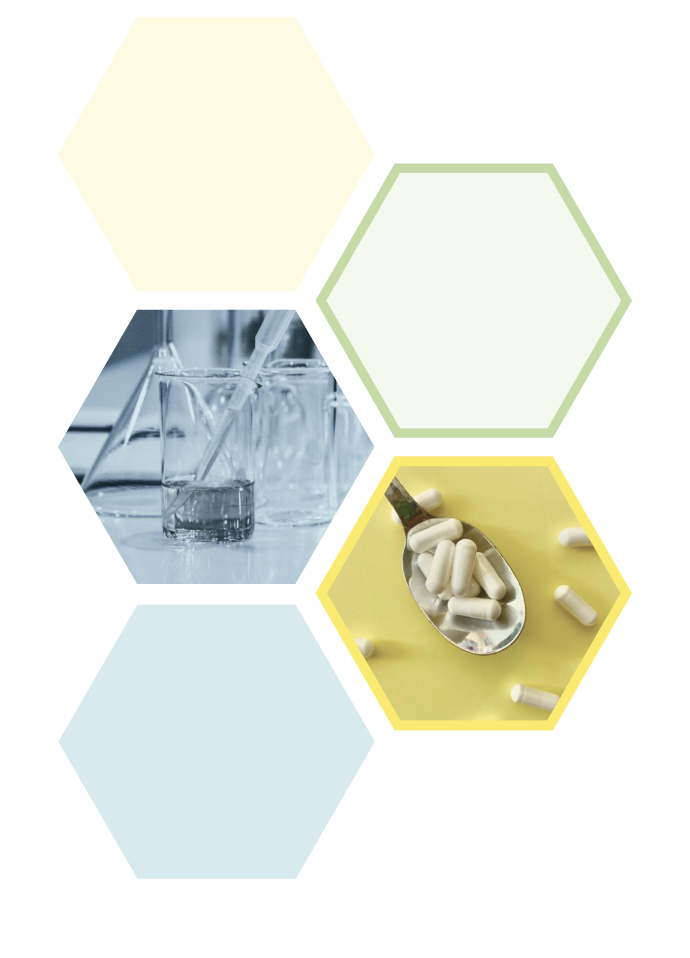
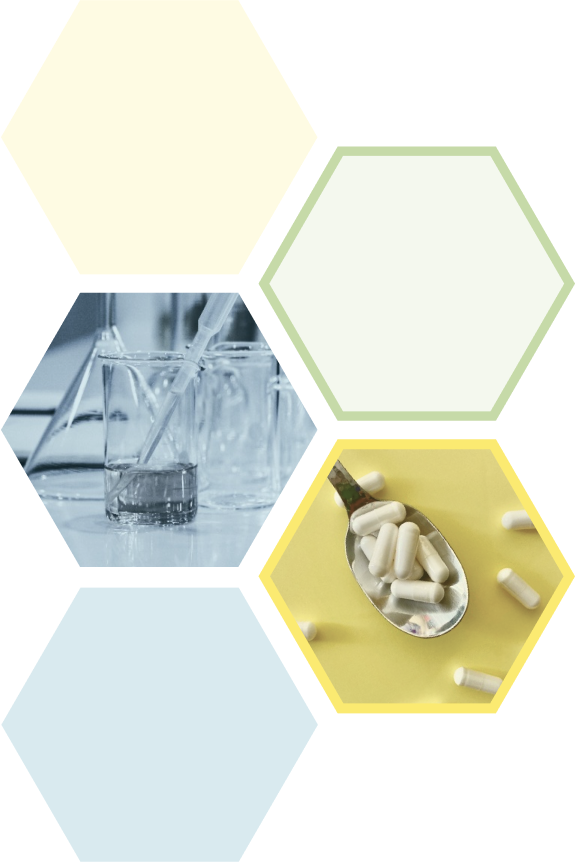
finished home hero

diff --git a/src/components/home/hero.css b/src/components/home/hero.css
@@ -1,31 +1,52 @@
-.hero {
+.home-hero {
     display: flex;
-    justify-content: space-between;
-    align-items: center;
-    padding: 2rem;
+    position: relative;
+    height: 45rem;
+    max-width: 80rem;
+    margin: 0 auto;
+    padding: 0 2rem;
+    flex-direction: column;
+    align-items: flex-start;
+    align-self: stretch;
 }
 
-.hero-text {
-    margin-left: 3rem;
+.home-hero-text {
+    display: flex;
+    height: 43.125rem;
+    overflow: hidden;
+    flex-direction: column;
+    justify-content: center;
+    align-items: flex-start;
+    align-self: stretch;
+    gap: 1.25rem;
 }
 
-.hero-text h2 {
-    font-size: 36px;    /* Adjust as needed */
-    font-weight: lighter;
-    color: #4295AF;          /* Adjust as needed */
-    margin: 0;            /* Remove default margin */
-    text-align: left;
+.home-hero-text h2 {
+    width: 30.5625rem;
+    color: #4295af;
+    font-family: Plus Jakarta Sans;
+    font-size: 2rem;
+    font-style: normal;
+    font-weight: 400;
+    line-height: normal;
+    margin: 0;
 }
 
-.hero-text h1 {
-    font-size: 68px;    /* Adjust as needed */
-    font-weight: bold;
-    color: #4295AF;          /* Adjust as needed */
-    margin: 0;            /* Remove default margin */
-    text-align: left;
+.home-hero-text h1 {
+    width: 30.5625rem;
+    color: #303030;
+    font-family: Plus Jakarta Sans;
+    font-size: 4.25rem;
+    font-style: normal;
+    font-weight: 600;
+    line-height: normal;
+    margin: 0;
 }
 
 .hero-image img {
-    max-width: 70%;       /* Adjust based on the desired size of your image */
-    height: auto;        /* Maintain aspect ratio */
+    position: absolute;
+    top: 0;
+    right: 2rem;
+    height: 100%;
+    z-index: 0;
 }

diff --git a/src/components/home/hero.js b/src/components/home/hero.js
@@ -1,26 +1,20 @@
-import React from 'react';
-import './hero.css'; // Import the CSS file
+import React from "react";
+import "./hero.css"; // Import the CSS file
+import Header from "../Header/header";
 import heroImage from "../../images/hexagon.png"; // Replace 'path_to_your_image.jpg' with the actual path to your image
 
 function Hero() {
     return (
-        <section className="hero-home">
-            <section className="hero">
-                <div className="hero-text">
-                    <h2 id="uc-berkeley">UC Berkeley</h2>
-                    <h1 className="club-name">Toxicology</h1>
-                    <h1 className="club-name">Student</h1>
-                    <h1 className="club-name">Association</h1>
-
-                </div>
-                <div className="hero-image">
-                    <img src={heroImage} />
-                </div>
-            </section>
+        <section className="home-hero">
+            <Header></Header>
+            <div className="home-hero-text">
+                <h2 id="uc-berkeley">UC Berkeley</h2>
+                <h1 className="club-name">Toxicology Student Association</h1>
+            </div>
+            <div className="hero-image">
+                <img src={heroImage} />
+            </div>
         </section>
-
-
-        
     );
 }
 

diff --git a/src/components/Header/header.css b/src/components/Header/header.css
@@ -1,13 +1,11 @@
 .header {
     display: flex;
-    width: 80rem;
     overflow: hidden;
-    height: 5rem;
-    max-width: 80rem;
-    margin: 0 auto;
-    padding: 0 2rem;
+    height: 6rem;
+    width: 100%;
     justify-content: space-between;
     align-items: center;
+    z-index: 2;
 }
 
 .header-navbar {
@@ -26,21 +24,13 @@
 }
 
 .header img {
-    max-width: 150px;
+    max-width: 8rem;
 }
 
 .header-navbar nav {
     display: flex;
     justify-content: end;
     width: 100%;
-}
-
-.header-navbar ul {
-    display: flex; /* This will arrange list items horizontally */
-    align-items: center;
-    list-style: none; /* This will remove default bullet points */
-    padding: 0; /* Remove default padding */
-    margin: 0; /* Remove default margin */
 }
 
 .header-navbar a {

diff --git a/src/components/home/Home.js b/src/components/home/Home.js
@@ -1,5 +1,4 @@
 import React from "react";
-import Header from "../Header/header";
 import Footer from "./footer";
 import Hero from ".//hero";
 import Body from "./body";
@@ -7,10 +6,7 @@ import Body from "./body";
 export default function Home() {
     return (
         <>
-            <Header />
-            <main>
-                <Hero />
-            </main>
+            <Hero />
 
             <Body />
 
